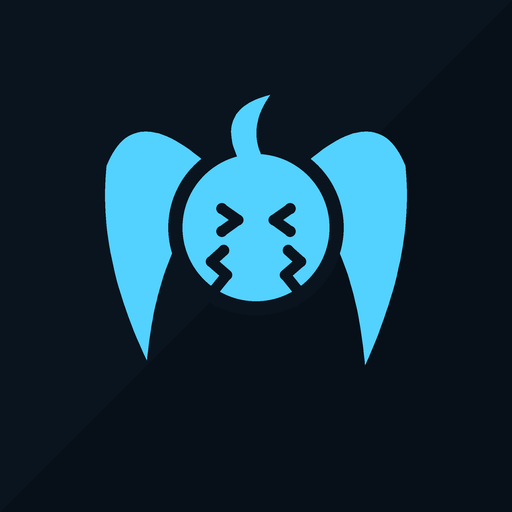
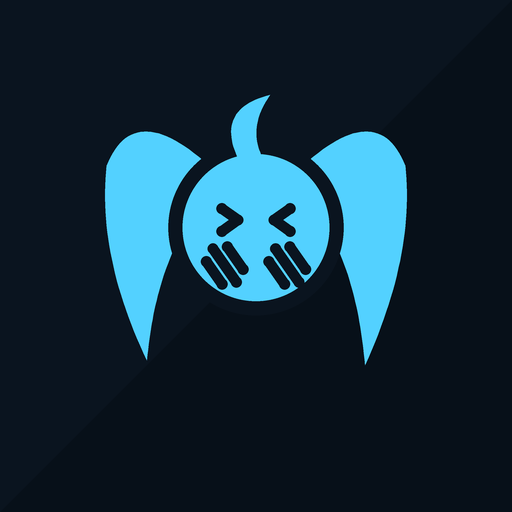
fix: 볼 장식을 레퍼런스 구조대로 평행 3막대(!|!)로 교체 (versionCode 10)
지그재그 해석을 접고, 같은 기울기의 막대 3개(가운데 길게)로 재구성 — 양볼 동일 방향.

Changed region(s): [[0.375, 0.4688, 0.625, 0.5625]]

diff --git a/play/make-graphics.py b/play/make-graphics.py
@@ -22,8 +22,15 @@ EYE_R = 1.15
 EYE_SEGS = [((46.8, 44.0), (50.2, 46.4)), ((46.8, 48.8), (50.2, 46.4)),
             ((61.2, 44.0), (57.8, 46.4)), ((61.2, 48.8), (57.8, 46.4))]
 DEV_R = 1.15
-R_ZIG = [(60.8, 52.8), (63.4, 55.2), (60.2, 58.0), (62.8, 61.2), (62.2, 63.6)]
-L_ZIG = [(47.2, 52.8), (44.6, 55.2), (47.8, 58.0), (45.2, 61.2), (45.8, 63.6)]
+_th = math.radians(-55)
+_u = (math.cos(_th), -math.sin(_th)); _nv = (-_u[1], _u[0])
+def _bars(mcx, mcy):
+    out = []
+    for off, L in ((-2.7, 2.9), (0, 4.3), (2.7, 2.9)):
+        c = (mcx + off * _nv[0], mcy + off * _nv[1])
+        out.append(((c[0] - L * _u[0], c[1] - L * _u[1]), (c[0] + L * _u[0], c[1] + L * _u[1])))
+    return out
+DEV_SEGS = _bars(60.6, 56.0) + _bars(47.4, 56.0)
 
 
 def qbez(p0, p1, p2, n=28):
@@ -61,9 +68,8 @@ def draw_motif(dr, ox, oy, scale):
             dr.ellipse([p[0] - cr, p[1] - cr, p[0] + cr, p[1] + cr], fill=NAVY)
     for a, b in EYE_SEGS:
         seg(a, b, EYE_R)
-    for zig in (R_ZIG, L_ZIG):
-        for i in range(len(zig) - 1):
-            seg(zig[i], zig[i + 1], DEV_R)
+    for a, b in DEV_SEGS:
+        seg(a, b, DEV_R)
 
 
 def make_icon():
